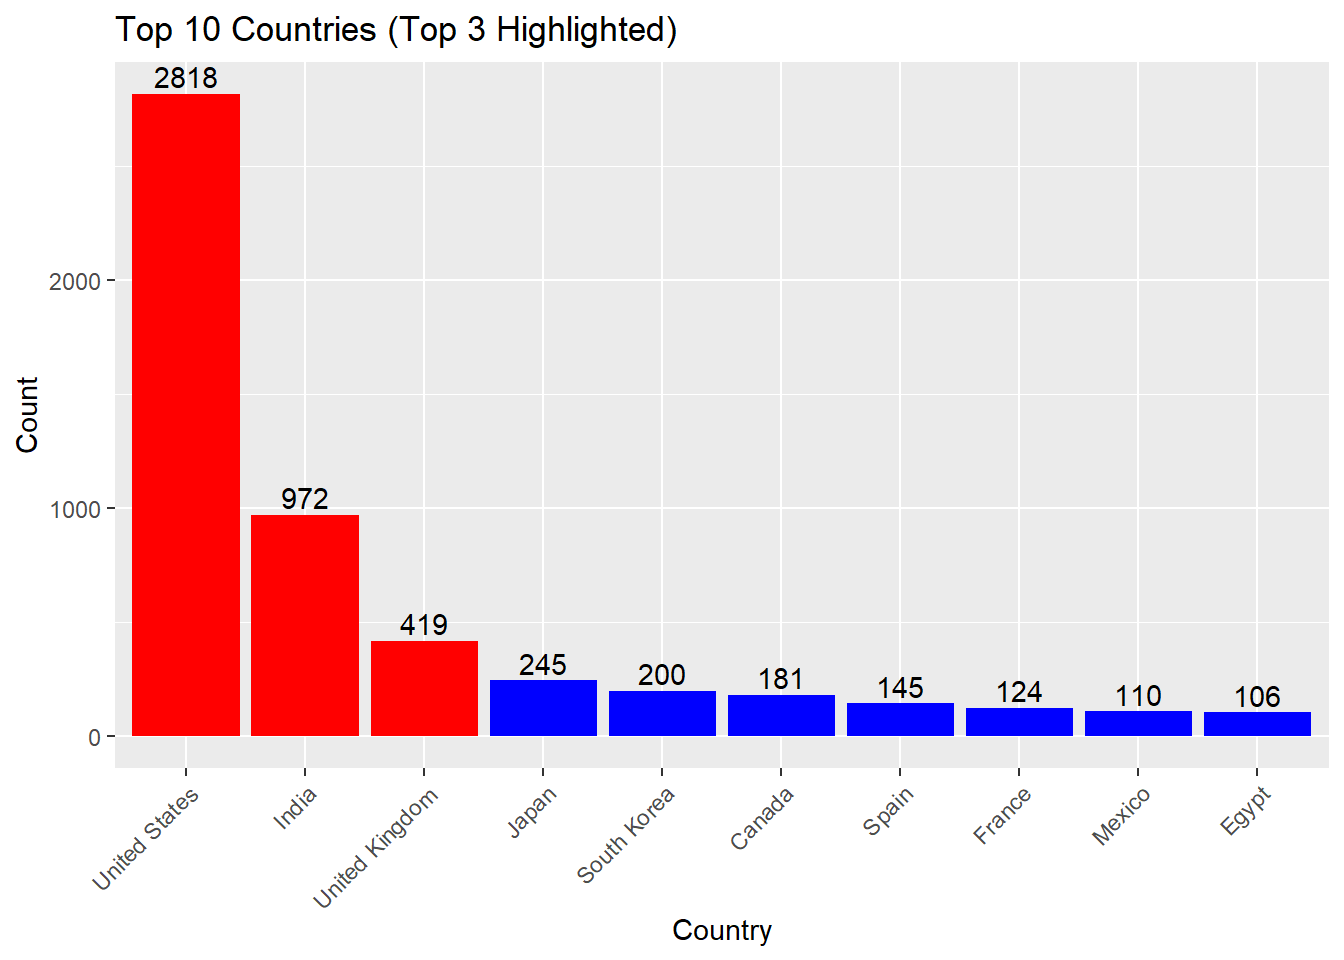
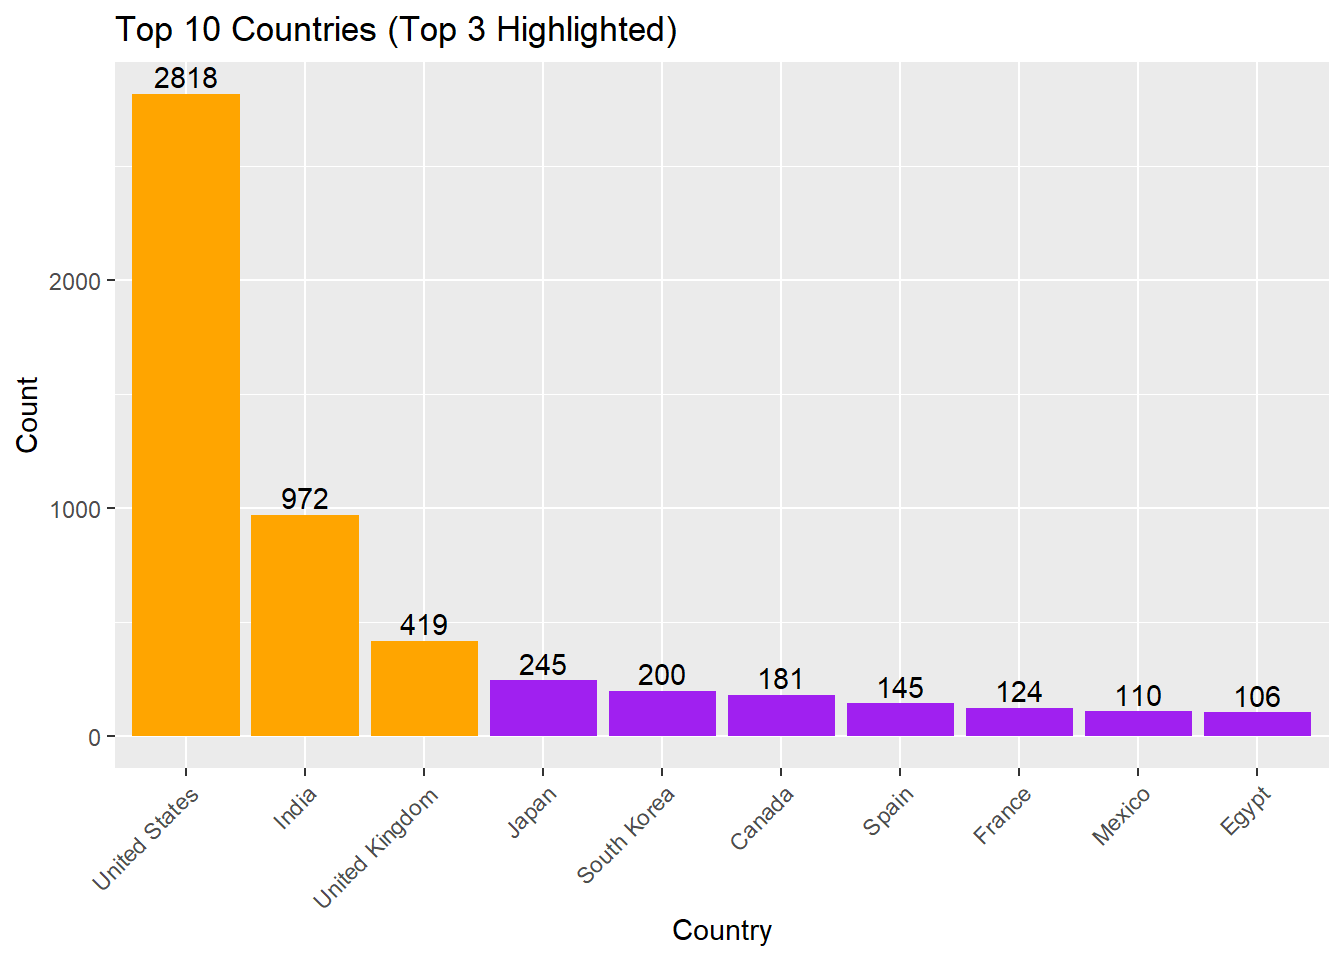
pt3.1

Changed region(s): [[0.0938, 0.0938, 1.0, 0.7812]]

diff --git a/docs/starter-analysis-exercise/products/report/starter-analysis-report.html b/docs/starter-analysis-exercise/products/report/starter-analysis-report.html
@@ -394,11 +394,11 @@ div.csl-indent {
 <span id="cb11-8"><a href="#cb11-8" aria-hidden="true" tabindex="-1"></a></span>
 <span id="cb11-9"><a href="#cb11-9" aria-hidden="true" tabindex="-1"></a><span class="co"># Create the bar chart</span></span>
 <span id="cb11-10"><a href="#cb11-10" aria-hidden="true" tabindex="-1"></a>p <span class="ot">&lt;-</span> <span class="fu">ggplot</span>(country_df, <span class="fu">aes</span>(<span class="at">x =</span> <span class="fu">reorder</span>(country, <span class="sc">-</span>count), <span class="at">y =</span> count)) <span class="sc">+</span></span>
-<span id="cb11-11"><a href="#cb11-11" aria-hidden="true" tabindex="-1"></a>  <span class="fu">geom_bar</span>(<span class="at">stat =</span> <span class="st">"identity"</span>, <span class="at">fill =</span> <span class="st">"blue"</span>) <span class="sc">+</span></span>
+<span id="cb11-11"><a href="#cb11-11" aria-hidden="true" tabindex="-1"></a>  <span class="fu">geom_bar</span>(<span class="at">stat =</span> <span class="st">"identity"</span>, <span class="at">fill =</span> <span class="st">"purple"</span>) <span class="sc">+</span></span>
 <span id="cb11-12"><a href="#cb11-12" aria-hidden="true" tabindex="-1"></a>  <span class="fu">geom_text</span>(<span class="fu">aes</span>(<span class="at">label =</span> count), <span class="at">vjust =</span> <span class="sc">-</span><span class="fl">0.3</span>) <span class="sc">+</span></span>
 <span id="cb11-13"><a href="#cb11-13" aria-hidden="true" tabindex="-1"></a>  <span class="fu">labs</span>(<span class="at">x =</span> <span class="st">"Country"</span>, <span class="at">y =</span> <span class="st">"Count"</span>, <span class="at">title =</span> <span class="st">"Top 10 Countries (Top 3 Highlighted)"</span>) <span class="sc">+</span></span>
 <span id="cb11-14"><a href="#cb11-14" aria-hidden="true" tabindex="-1"></a>  <span class="fu">theme</span>(<span class="at">axis.text.x =</span> <span class="fu">element_text</span>(<span class="at">angle =</span> <span class="dv">45</span>, <span class="at">hjust =</span> <span class="dv">1</span>)) <span class="sc">+</span></span>
-<span id="cb11-15"><a href="#cb11-15" aria-hidden="true" tabindex="-1"></a>  <span class="fu">geom_bar</span>(<span class="at">data =</span> country_df[<span class="dv">1</span><span class="sc">:</span><span class="dv">3</span>, ], <span class="fu">aes</span>(<span class="at">x =</span> country, <span class="at">y =</span> count), <span class="at">stat =</span> <span class="st">"identity"</span>, <span class="at">fill =</span> <span class="st">"red"</span>)</span>
+<span id="cb11-15"><a href="#cb11-15" aria-hidden="true" tabindex="-1"></a>  <span class="fu">geom_bar</span>(<span class="at">data =</span> country_df[<span class="dv">1</span><span class="sc">:</span><span class="dv">3</span>, ], <span class="fu">aes</span>(<span class="at">x =</span> country, <span class="at">y =</span> count), <span class="at">stat =</span> <span class="st">"identity"</span>, <span class="at">fill =</span> <span class="st">"orange"</span>)</span>
 <span id="cb11-16"><a href="#cb11-16" aria-hidden="true" tabindex="-1"></a></span>
 <span id="cb11-17"><a href="#cb11-17" aria-hidden="true" tabindex="-1"></a><span class="fu">print</span>(p)</span></code><button title="Copy to Clipboard" class="code-copy-button"><i class="bi"></i></button></pre></div>
 <div class="cell-output-display">

diff --git a/docs/starter-analysis-exercise/data/raw-data/readme.html b/docs/starter-analysis-exercise/data/raw-data/readme.html
@@ -150,7 +150,7 @@ ul.task-list li input[type="checkbox"] {
 <li><p><strong>listed_in:</strong> The genres the title falls under.</p></li>
 <li><p><strong>description:</strong> A brief summary of the title.</p></li>
 </ul>
-<p>You will need to load the following packages in R: library(readxl) library(dplyr) library(tidyr) library(skimr)<br>
+<p>You will need to load the following packages in R: library(readxl) library(ggplot2) library(dplyr) library(tidyr) library(skimr)<br>
 library(here)</p>
 <p>Next, to clean the data prior to analysis you will need to…</p>
 <p>Handle the missing values in the ‘director’ variable: &gt;rawdata<span class="math inline">\(director[is.na(rawdata\)</span>director)] &lt;- “Unknown”</p>
